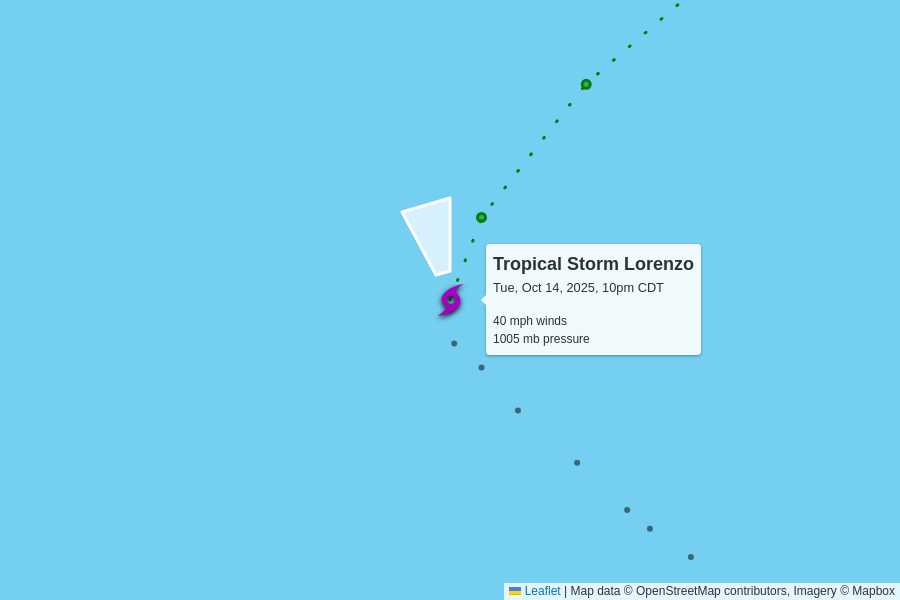
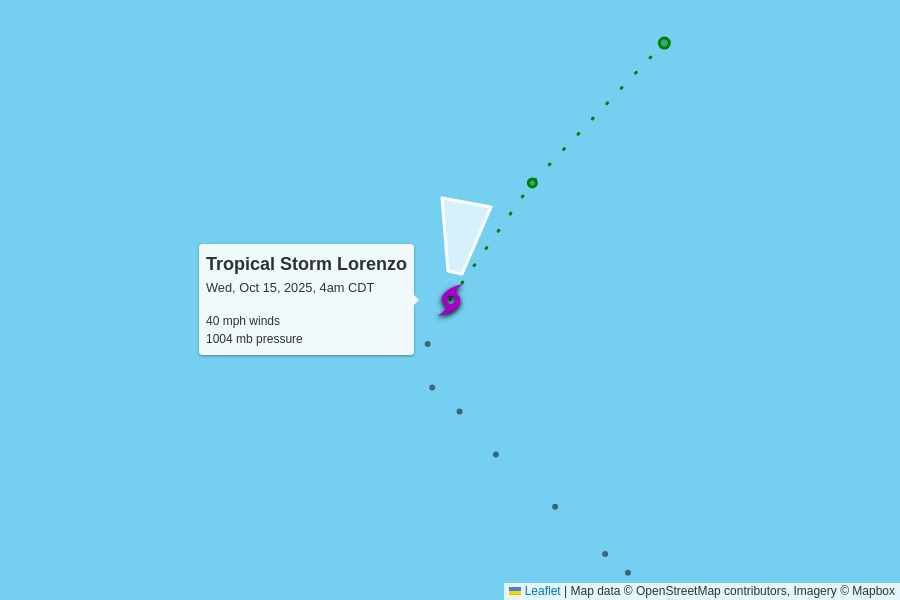
automatic update

diff --git a/docs/index.html b/docs/index.html
@@ -102,7 +102,7 @@
         <td colspan="6" class="storm category-0" >
           <h2>
             Tropical Storm Lorenzo
-            <p class="updated">last updated <span data-time>2025-10-15T03:00:00.000Z</span></p>
+            <p class="updated">last updated <span data-time>2025-10-15T09:00:00.000Z</span></p>
           </h2>
         </td>
       </tr>
@@ -118,11 +118,11 @@
       <tr>
         <td class="spacer"></td>
         <td>40 mph<br>0 mph since last update</td>
-        <td>1005 mb<br>0 mb since last update</td>
+        <td>1004 mb<br>-1 mb since last update</td>
         <td>
-          12 mph to the north-northwest
+          13 mph to the north
           <br/>
-          <span style="display: inline-block; font-size: 1.5em; transform: rotate(345deg);">↑</span>
+          <span style="display: inline-block; font-size: 1.5em; transform: rotate(10deg);">↑</span>
         </td>
         <td><a href="https://raw.githubusercontent.com/mgwalker/atlantic-hurricanes/main/data/csv/AL122025.csv">AL122025.csv</a></td>
         <td><a href="https://www.nhc.noaa.gov/archive/2025/LORENZO.shtml?">NHC advisories</a></td>
